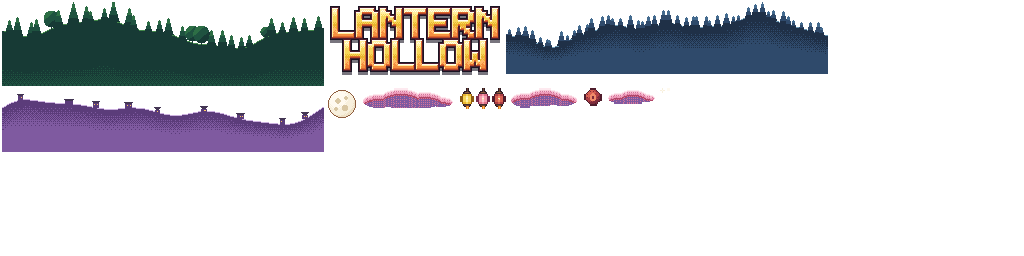
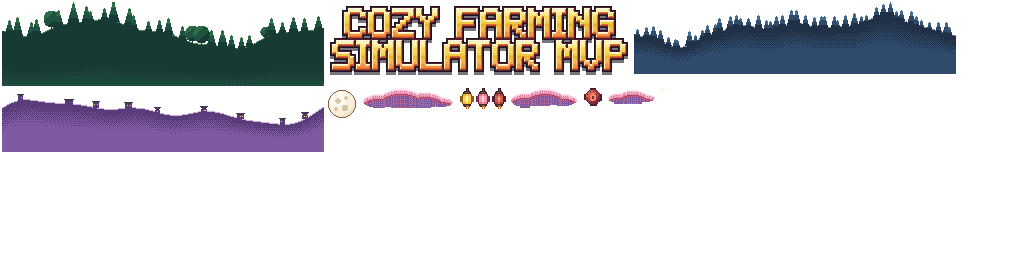
Rename the game to Cozy Farming Simulator MVP and license it MIT

Changed region(s): [[0.3125, 0.0, 0.9375, 0.3125]]

diff --git a/index.html b/index.html
@@ -10,12 +10,12 @@
     <link rel="manifest" href="manifest.webmanifest" />
     <link rel="icon" type="image/png" sizes="32x32" href="icons/favicon-32.png" />
     <link rel="apple-touch-icon" href="icons/apple-touch-icon.png" />
-    <meta name="apple-mobile-web-app-title" content="Lantern Hollow" />
+    <meta name="apple-mobile-web-app-title" content="Cozy Farming Simulator MVP" />
     <meta name="apple-mobile-web-app-status-bar-style" content="black-translucent" />
     <meta name="mobile-web-app-capable" content="yes" />
     <meta name="apple-mobile-web-app-capable" content="yes" />
-    <meta name="description" content="Lantern Hollow: a cozy pixel-art farming game. Plant, fish, befriend the valley and light every lantern." />
-    <title>Lantern Hollow</title>
+    <meta name="description" content="Cozy Farming Simulator MVP: a cozy pixel-art farming game. Plant, fish, befriend the valley and light every lantern." />
+    <title>Cozy Farming Simulator MVP</title>
     <style>
       html, body { margin: 0; height: 100%; background: #1a1423; overflow: hidden; overscroll-behavior: none; }
       body { position: fixed; inset: 0; touch-action: none; -webkit-user-select: none; user-select: none; -webkit-touch-callout: none; -webkit-tap-highlight-color: transparent; }
@@ -34,14 +34,14 @@
   <body>
     <div id="game"></div>
     <div class="sr">
-      <h1>Lantern Hollow</h1>
+      <h1>Cozy Farming Simulator MVP</h1>
       <p>A cozy pixel-art farming game. Grow crops, fish, make friends in the valley and light every lantern. It is drawn on a canvas, so the goal and what happens are spoken in the live region below.</p>
       <h2>Controls</h2>
       <ul id="how"></ul>
       <div id="live" role="status" aria-live="polite"></div>
     </div>
-    <div id="boot"><div class="lamp"></div><div>LANTERN HOLLOW</div></div>
-    <noscript>Lantern Hollow needs JavaScript to run.</noscript>
+    <div id="boot"><div class="lamp"></div><div>COZY FARMING SIMULATOR MVP</div></div>
+    <noscript>Cozy Farming Simulator MVP needs JavaScript to run.</noscript>
     <script type="module" src="/src/main.ts"></script>
   </body>
 </html>

diff --git a/src/scenes/Title.ts b/src/scenes/Title.ts
@@ -359,8 +359,11 @@ export class TitleScene extends Phaser.Scene {
     const glow = this.add.image(x, top + 38, 'atlas', 'fx/glow-128').setTint(0xffb457).setBlendMode(Phaser.BlendModes.ADD).setScale(2.4, 1.1).setAlpha(0.28).setDepth(D.ui - 2);
     this.tweens.add({ targets: glow, alpha: 0.42, duration: 2600, yoyo: true, repeat: -1, ease: 'sine.inOut' });
     const logo = this.add.image(x, top, 'title', 'logo').setOrigin(0.5, 0).setDepth(D.ui - 1);
+    // the name is long: shrink the logo to the screen rather than let its ends run off a narrow phone
+    const fit = Math.min(1, (uiW - 16) / logo.width);
+    if (fit < 1) logo.setScale(fit);
     this.tweens.add({ targets: logo, y: top + 2, duration: 2400, yoyo: true, repeat: -1, ease: 'sine.inOut' });
-    if (!short) label(this, x, top + 80, 'A cozy farming tale', { tint: PAL.cream[1], origin: [0.5, 0], outline: true }).setDepth(D.ui);
+    if (!short) label(this, x, top + Math.round(logo.displayHeight) + 4, 'A cozy farming tale', { tint: PAL.cream[1], origin: [0.5, 0], outline: true }).setDepth(D.ui);
   }
 
   private menu(short: boolean): void {
@@ -466,7 +469,7 @@ export class TitleScene extends Phaser.Scene {
 
   /** Two tabs on one farm would overwrite each other's days, so a second one has to say it means it. */
   private confirmTakeover(fresh: boolean): void {
-    this.ask('Already open', 'Lantern Hollow is open in another tab. Playing here stops it saving.', 'Play here', 'Cancel', () => this.start(fresh, true));
+    this.ask('Already open', 'Cozy Farming Simulator MVP is open in another tab. Playing here stops it saving.', 'Play here', 'Cancel', () => this.start(fresh, true));
   }
 
   /** A small question over the title with a way out and a way on. */

diff --git a/src/features/backup/backup.ts b/src/features/backup/backup.ts
@@ -30,11 +30,11 @@ export function unpackSave(text: string): Unpacked {
   try {
     parsed = JSON.parse(text);
   } catch {
-    return { ok: false, msg: 'That file is not a Lantern Hollow save.' };
+    return { ok: false, msg: 'That file is not a Cozy Farming Simulator MVP save.' };
   }
   let save = parsed;
   if (isObj(parsed) && 'game' in parsed) {
-    if (parsed.game !== GAME) return { ok: false, msg: 'That file is not a Lantern Hollow save.' };
+    if (parsed.game !== GAME) return { ok: false, msg: 'That file is not a Cozy Farming Simulator MVP save.' };
     if (parsed.format !== FORMAT) return { ok: false, msg: 'A newer version of the game made that backup.' };
     save = parsed.save;
   }

diff --git a/src/main.ts b/src/main.ts
@@ -29,7 +29,7 @@ function cannotDraw(): void {
   boot.classList.add('stuck');
   const why = document.createElement('div');
   why.className = 'why';
-  why.textContent = 'This browser cannot draw the game. Lantern Hollow needs WebGL, and it is switched off or missing here. Try an up-to-date Chrome, Firefox, Safari or Edge, or turn on hardware acceleration in the browser settings.';
+  why.textContent = 'This browser cannot draw the game. Cozy Farming Simulator MVP needs WebGL, and it is switched off or missing here. Try an up-to-date Chrome, Firefox, Safari or Edge, or turn on hardware acceleration in the browser settings.';
   boot.appendChild(why);
 }
 

diff --git a/src/ui/Modals.ts b/src/ui/Modals.ts
@@ -150,7 +150,7 @@ export class Modals {
 
   /** Another tab has taken this farm. This page has stopped saving, and the only way on is to load it again. */
   locked(): void {
-    const text = 'Lantern Hollow is open in another tab, so this one has stopped saving. Reload to play here instead.';
+    const text = 'Cozy Farming Simulator MVP is open in another tab, so this one has stopped saving. Reload to play here instead.';
     this.present(() => {
       const { open } = this.begin(() => window.location.reload());
       const w = Math.min(196, this.l.uiW - 12);

diff --git a/src/ui/MenuUI.ts b/src/ui/MenuUI.ts
@@ -398,7 +398,7 @@ function appEntries(st: GameState): Entry[] {
     out.push({
       row: { text: 'Install the game' },
       title: 'Install the game',
-      lines: ['Put Lantern Hollow on your home screen. It opens full screen and plays with no connection.'],
+      lines: ['Put Cozy Farming Simulator MVP on your home screen. It opens full screen and plays with no connection.'],
       actions: [{ label: 'Install', kind: 'leaf', run: () => install().then((ok) => (ok ? 'Installed. Look for the lantern.' : 'Maybe another time.')) }],
     });
   }

diff --git a/src/features/postcard/capture.ts b/src/features/postcard/capture.ts
@@ -68,7 +68,7 @@ export function toFile(t: Taken): Promise<File | null> {
 export async function sendPostcard(file: File, share: boolean): Promise<string | null> {
   if (share && typeof navigator.canShare === 'function' && navigator.canShare({ files: [file] })) {
     try {
-      await navigator.share({ files: [file], title: 'Lantern Hollow' });
+      await navigator.share({ files: [file], title: 'Cozy Farming Simulator MVP' });
       return 'Shared.';
     } catch (e) {
       if (e instanceof DOMException && e.name === 'AbortError') return null;

diff --git a/src/a11y.ts b/src/a11y.ts
@@ -16,7 +16,7 @@ export function installA11y(game: Phaser.Game): void {
 
 function name(canvas: HTMLCanvasElement): void {
   canvas.setAttribute('role', 'img');
-  canvas.setAttribute('aria-label', 'Lantern Hollow, a cozy pixel-art farming game. The goal and what happens are read out in the live region below the game.');
+  canvas.setAttribute('aria-label', 'Cozy Farming Simulator MVP, a cozy pixel-art farming game. The goal and what happens are read out in the live region below the game.');
 }
 
 function speak(): void {

diff --git a/tests/postcard.test.ts b/tests/postcard.test.ts
@@ -112,8 +112,8 @@ describe('the words', () => {
   });
 
   it('names the file after the day, so cards do not overwrite each other', () => {
-    expect(postcardName(5)).toBe('lantern-hollow-spring-5.png');
-    expect(postcardName(22)).toBe('lantern-hollow-winter-1.png');
+    expect(postcardName(5)).toBe('cozy-farming-simulator-mvp-spring-5.png');
+    expect(postcardName(22)).toBe('cozy-farming-simulator-mvp-winter-1.png');
     expect(new Set([1, 2, 3, 4, 5, 6, 7].map(postcardName)).size).toBe(7);
   });
 

diff --git a/src/features/postcard/layout.ts b/src/features/postcard/layout.ts
@@ -109,5 +109,5 @@ export const STAMP_LANTERNS = ['gold', 'pink', 'red'] as const;
 export const stampLantern = (day: number): (typeof STAMP_LANTERNS)[number] => STAMP_LANTERNS[day % STAMP_LANTERNS.length] ?? 'gold';
 
 export function postcardName(day: number): string {
-  return `lantern-hollow-${seasonOf(day)}-${dayOfSeason(day)}.png`;
+  return `cozy-farming-simulator-mvp-${seasonOf(day)}-${dayOfSeason(day)}.png`;
 }

diff --git a/tests/pwa.test.ts b/tests/pwa.test.ts
@@ -20,7 +20,7 @@ describe('the installable app', () => {
   };
 
   it('has a manifest browsers will accept', () => {
-    expect(manifest.name).toBe('Lantern Hollow');
+    expect(manifest.name).toBe('Cozy Farming Simulator MVP');
     expect(manifest.start_url).toBe('./');
     expect(manifest.scope).toBe('./');
     expect(['standalone', 'fullscreen']).toContain(manifest.display);

diff --git a/src/ui/helpText.ts b/src/ui/helpText.ts
@@ -4,7 +4,7 @@
  */
 export function helpLines(version: string, support: string): string[] {
   return [
-    `Lantern Hollow ${version}.`,
+    `Cozy Farming Simulator MVP ${version}.`,
     'Your farm is kept in this browser only.',
     'There is no account, and nothing is sent anywhere.',
     'Clearing site data or changing browser can lose it.',
